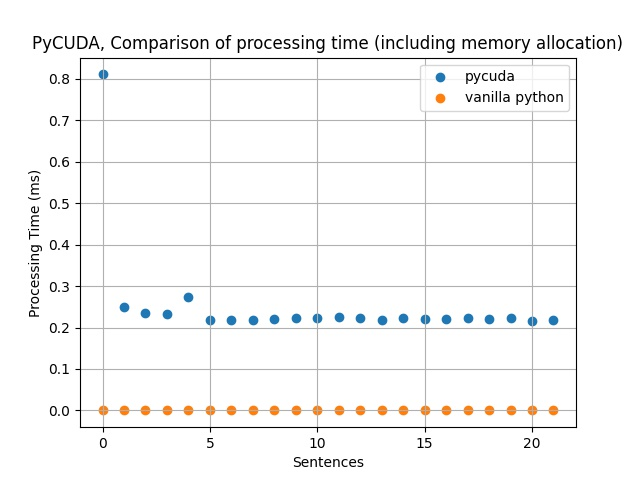
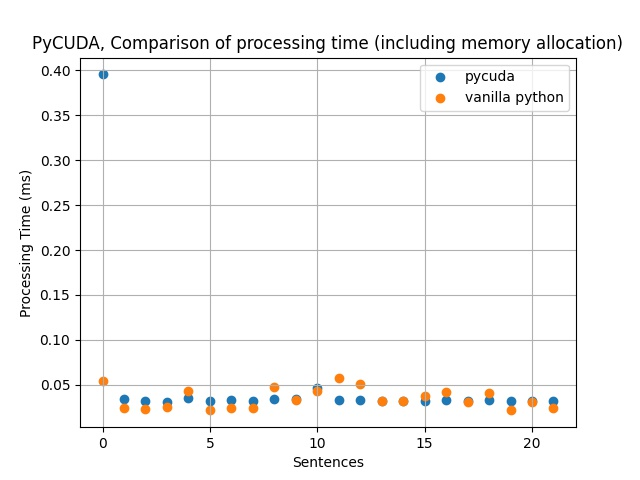
opencl-update

diff --git a/e4750/hw2/assignment2_pyopencl_xs2445.py b/e4750/hw2/assignment2_pyopencl_xs2445.py
@@ -1,0 +1,194 @@
+import pyopencl as cl
+import numpy as np
+import time
+import pyopencl.array as array
+import sys
+import matplotlib.pyplot as plt
+
+
+class clCipher:
+    def __init__(self):
+        """
+        Attributes for instance of clModule
+        Includes OpenCL context, command queue, kernel code
+        and input variables.
+        """
+        
+        # Get platform and device property
+        NAME = 'NVIDIA CUDA'
+        platforms = cl.get_platforms()
+        devs = None
+        for platform in platforms:
+        	if platform.name == NAME:
+        		devs = platform.get_devices()       
+        
+        # Set up a command queue:
+        self.ctx = cl.Context(devs)
+        self.queue = cl.CommandQueue(self.ctx, properties=cl.command_queue_properties.PROFILING_ENABLE)
+        
+        # kernel
+        self.kernel_code = """
+        //# include<iostream>
+        __kernel void Decrypt(__global char* sentence, __global char* decrypted, const unsigned int length){
+            unsigned int i = get_global_id(0);
+            if(i<length){
+                char asc = sentence[i];
+                if((asc > 96) && (asc < 123)){
+                    if(asc < 110) decrypted[i] = asc+13;
+                    else decrypted[i] = asc-13;
+                }
+                else decrypted[i] = asc;
+            }
+        }
+        """
+        
+        # Build kernel code
+        self.prg = cl.Program(self.ctx, self.kernel_code).build()
+        
+
+    def devCipher(self, sentence):
+        """
+        Function to perform on-device parallel ROT-13 encrypt/decrypt
+        by explicitly allocating device memory for host variables.
+        Returns
+            decrypted :   decrypted/encrypted result
+            time_     :   execution time in milliseconds
+        """
+
+        # Text pre-processing/list comprehension (if required)
+        # Depends on how you approach the problem
+        length = len(sentence)*sys.getsizeof(sentence)
+
+        sentence = np.char.asarray(sentence)
+        decrypted = np.empty_like(sentence)
+        # print(sentence.shape)
+
+        # device memory allocation
+        start_alc = time.time()
+        sentence_d = array.to_device(self.queue, sentence)
+        decrypted_d = array.to_device(self.queue, decrypted)
+        
+        # Call the kernel function and time event execution
+        start_cpt = time.time()
+        event = self.prg.Decrypt(self.queue, (length,), None, sentence_d.data, decrypted_d.data, np.int32(length))
+
+        
+        # OpenCL event profiling returns times in nanoseconds. 
+        # Hence, 1e-6 will provide the time in milliseconds, 
+        # making your plots easier to read.
+        event.wait()
+        end = time.time()
+        # print(decrypted_d)
+
+        # Copy result to host memory
+        decrypted = decrypted_d.get()
+        decrypted = np.ndarray.tolist(decrypted)
+        # print(decrypted)
+        # print(type(decrypted))
+        time_event = event.profile.end-event.profile.start
+
+        return decrypted[0], time_event*1e-6
+        # return decrypted[0], (end-start_cpt)*1e3
+
+
+    
+    def pyCipher(self, sentence):
+        """
+        Function to perform parallel ROT-13 encrypt/decrypt using 
+        vanilla python. (String manipulation and list comprehension
+        will prove useful.)
+
+        Returns
+            decrypted                  :   decrypted/encrypted result
+            time_    :   execution time in milliseconds
+        """
+        start = time.time()
+        # using ord() convert sting to ascii whose datatype is int
+        text_asc = [ord(i) for i in sentence]
+        decrypted = ''
+        # decrypt
+        for asc in text_asc:
+
+            if asc > 96 and asc < 123:
+                if asc < 110:
+                    # using chr() to convert ascii int to string
+                    decrypted += chr(asc+13)
+                else:
+                    decrypted += chr(asc-13)
+            else:
+                decrypted += chr(asc)
+        # print(decrypted)
+        return decrypted, (time.time()-start)*1e3
+
+
+def main():
+    # Main code
+    # create an instance of clCipher
+    cipher = clCipher()
+
+    # Open text file to be deciphered.
+    # Preprocess the file to separate sentences
+    text_de = open('deciphertext.txt', 'r').read()
+
+    # split string into list populated with '.' as delimiter
+    sentences = text_de.split('. ')
+
+    # Loop over each sentence in the list
+    decrypted_c = []
+    decrypted_p = []
+    tc = []
+    tp = []
+    for sentence in sentences:
+        temp_sc, temp_tc = cipher.devCipher(sentence)
+        temp_sp, temp_tp = cipher.pyCipher(sentence)
+        decrypted_c.append(temp_sc)
+        decrypted_p.append(temp_sp)
+        tc.append(temp_tc)
+        tp.append(temp_tp)
+    tc = np.array(tc)
+    tp = np.array(tp)
+
+    # Stitch decrypted sentences together
+    decrypted_c_all = ''
+    decrypted_p_all = ''
+    for i in range(len(decrypted_c)):
+        decrypted_c_all += (decrypted_c[i]+'. ')
+        decrypted_p_all += (decrypted_p[i]+'. ')
+    
+    print("OpenCL output cracked in ", tc.mean(), " milliseconds per sentence.")
+    print("Python output cracked in ", tp.mean(), " milliseconds per sentence.")
+
+    # Error check
+    try:
+        print("Checkpoint: Do python and kernel decryption match? Checking...")
+        # compare outputs
+        if decrypted_c_all != decrypted_p_all:
+            raise Exception
+    except Exception:
+        print("Checkpoint failed: Python and OpenCL kernel decryption do not match. Try Again!")
+        # dump bad output to file for debugging
+    
+
+    # If ciphers agree, proceed to write decrypted text to file and plot execution times
+    else:
+        print("Checkpoint passed!")
+        print("Writing decrypted text to file...")
+        # Write cuda output to file
+        decrypted_text = open('decrypted_text.txt', 'w')
+        decrypted_text.write(decrypted_c_all)
+        decrypted_text.close()
+        # Scatter plot the  per-sentence execution times  
+        plt.figure()
+        plt.scatter(range(len(decrypted_c)), tc, label='pyopencl')
+        plt.scatter(range(len(decrypted_c)), tp, label='vanilla python')
+        plt.legend()
+        plt.grid()
+        plt.title('PyOpencl, Comparison of processing time (including memory allocation)')
+        plt.xlabel('Sentences')
+        plt.ylabel('Processing Time (ms)')
+        # plt.show()
+        plt.savefig('comparison_cl.jpg')
+
+
+if __name__ == "__main__":
+    main()

diff --git a/e4750/hw2/assignment2_pycuda_xs2445.py b/e4750/hw2/assignment2_pycuda_xs2445.py
@@ -100,7 +100,7 @@ class cudaCipher:
         decrypted = np.ndarray.tolist(decrypted)
         # print(type(decrypted))
 
-        return decrypted, time_alc
+        return decrypted, time_cpt
     
     def pyCipher(self, sentence):
         """
@@ -127,7 +127,7 @@ class cudaCipher:
             else:
                 decrypted += chr(asc)
         # print(type(decrypted))
-        return decrypted, time.time()-start
+        return decrypted, (time.time()-start)*1e3
 
 
 
